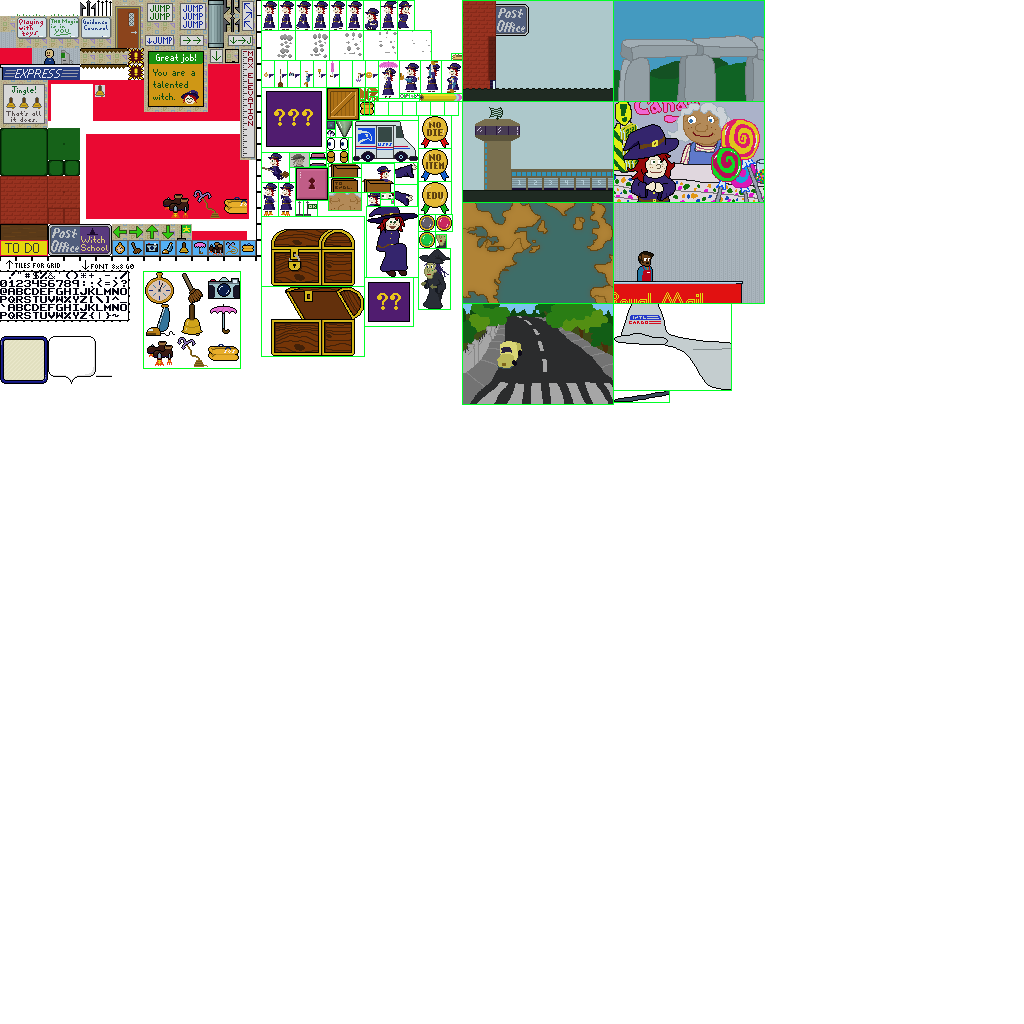
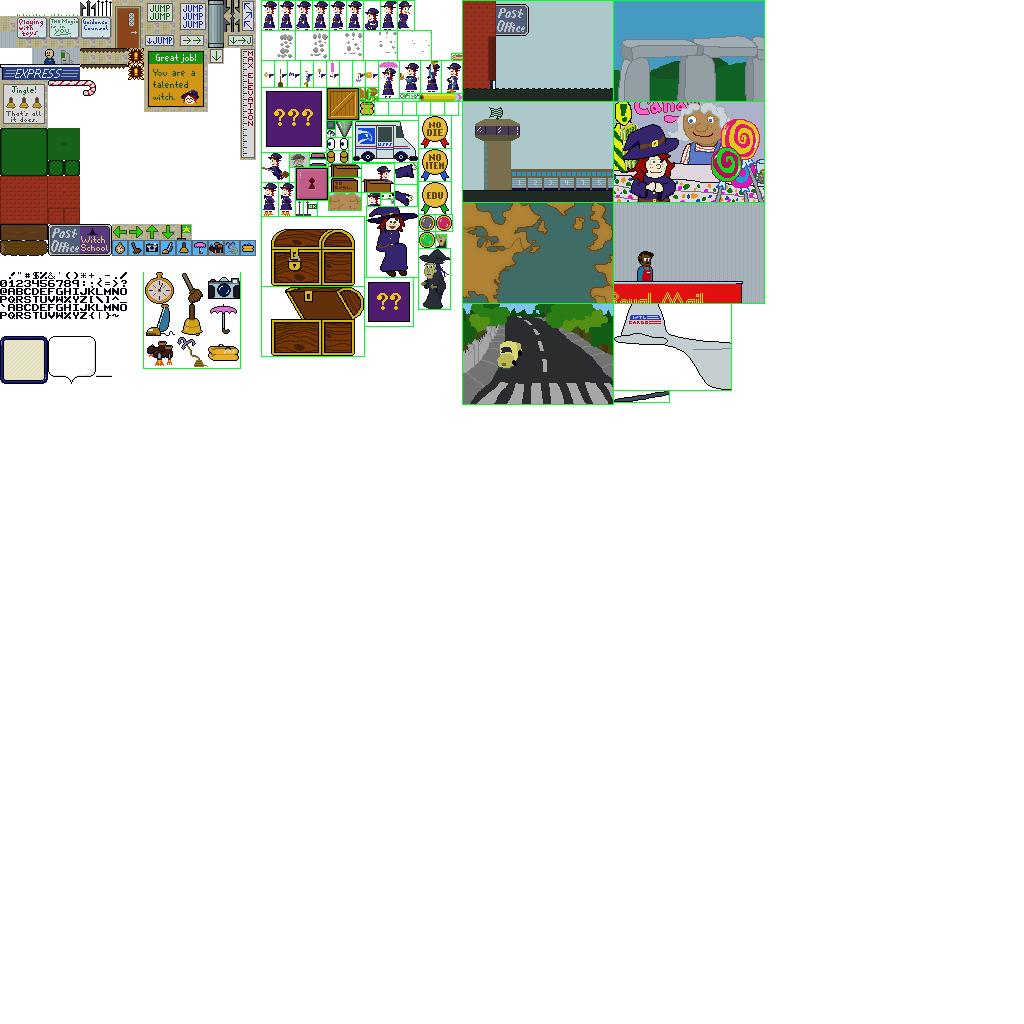
logs and candy canes (cosmetic map change)

Changed region(s): [[0.0312, 0.0312, 0.25, 0.25], [0.0, 0.2188, 0.125, 0.2812], [0.0, 0.0312, 0.0312, 0.0625]]

diff --git a/src/www/js/game/Grid.js b/src/www/js/game/Grid.js
@@ -139,7 +139,7 @@ Grid.CELLPHYSICS = [
   0,0,0,0,0,0,0,0, 0,0,0,0,0,1,0,0,
   0,0,0,0,0,2,2,2, 3,0,0,0,0,0,0,0,
   2,2,2,2,2,2,2,2, 3,0,0,0,0,0,0,0,
-  0,0,0,0,0,0,0,0, 0,0,0,0,0,0,0,0,
+  0,0,0,2,2,2,0,0, 0,0,0,0,0,0,0,0,
   0,0,0,0,0,0,0,0, 0,0,0,0,0,0,0,0,
   0,0,0,0,0,0,0,0, 0,0,0,0,0,0,0,0,
   
@@ -150,5 +150,5 @@ Grid.CELLPHYSICS = [
   1,1,1,1,1,0,0,0, 0,0,0,0,0,0,0,0,
   1,1,1,1,1,0,0,0, 0,0,0,0,0,0,0,0,
   1,1,1,1,1,1,1,0, 0,0,0,0,0,0,0,0,
-  0,0,0,1,1,1,1,0, 0,0,0,0,0,0,0,0,
+  1,1,1,1,1,1,1,0, 0,0,0,0,0,0,0,0,
 ];

diff --git a/src/editor/js/map/MapPaintService.js b/src/editor/js/map/MapPaintService.js
@@ -449,6 +449,9 @@ MapPaintService.TILEPROPS = [{
   tileid: 0x45,
   mode: "hotdog3x1",
 }, {
+  tileid: 0x53,
+  mode: "hotdog3x1",
+}, {
   tileid: 0x80,
   mode: "fat5x3",
 }, {
@@ -456,5 +459,8 @@ MapPaintService.TILEPROPS = [{
   mode: "fat5x3",
 }, {
   tileid: 0xe0,
+  mode: "hotdog3x1",
+}, {
+  tileid: 0xf0,
   mode: "hotdog3x1",
 }];

diff --git a/README.md b/README.md
@@ -8,18 +8,11 @@ https://github.com/aksommerville/too-heavy
 
 ## TODO
 
-- By 1 January
-- - [x] Stopwatch: Visual feedback while running.
-- - [ ] Final maps.
-- - [x] Tutorial 3: Admin
-- - [x] Cannonball isn't happening if you enter from the top with it already started. (visually right, but only getting the "land" sound). eg end of jump lessons.
 - By 7 January -- game jam submission
 - - [ ] Pretty up sound effects, after some review.
 - - - [ ] Pause/resume, yuck
 - - - [ ] Down-jump and dash sound too much alike.
 - - [ ] Fireworks on special jumps.
-- - [x] WordBubbler: Exact stem alignment, and avoid going offscreen.
-- - [x] WordBubbler: Rewrite text breaking, it's making poor choices
 - - [ ] Guess gamepad mapping for unknown devices.
 - Stretch goals, or after submission
 - - [ ] More interesting song voices.
